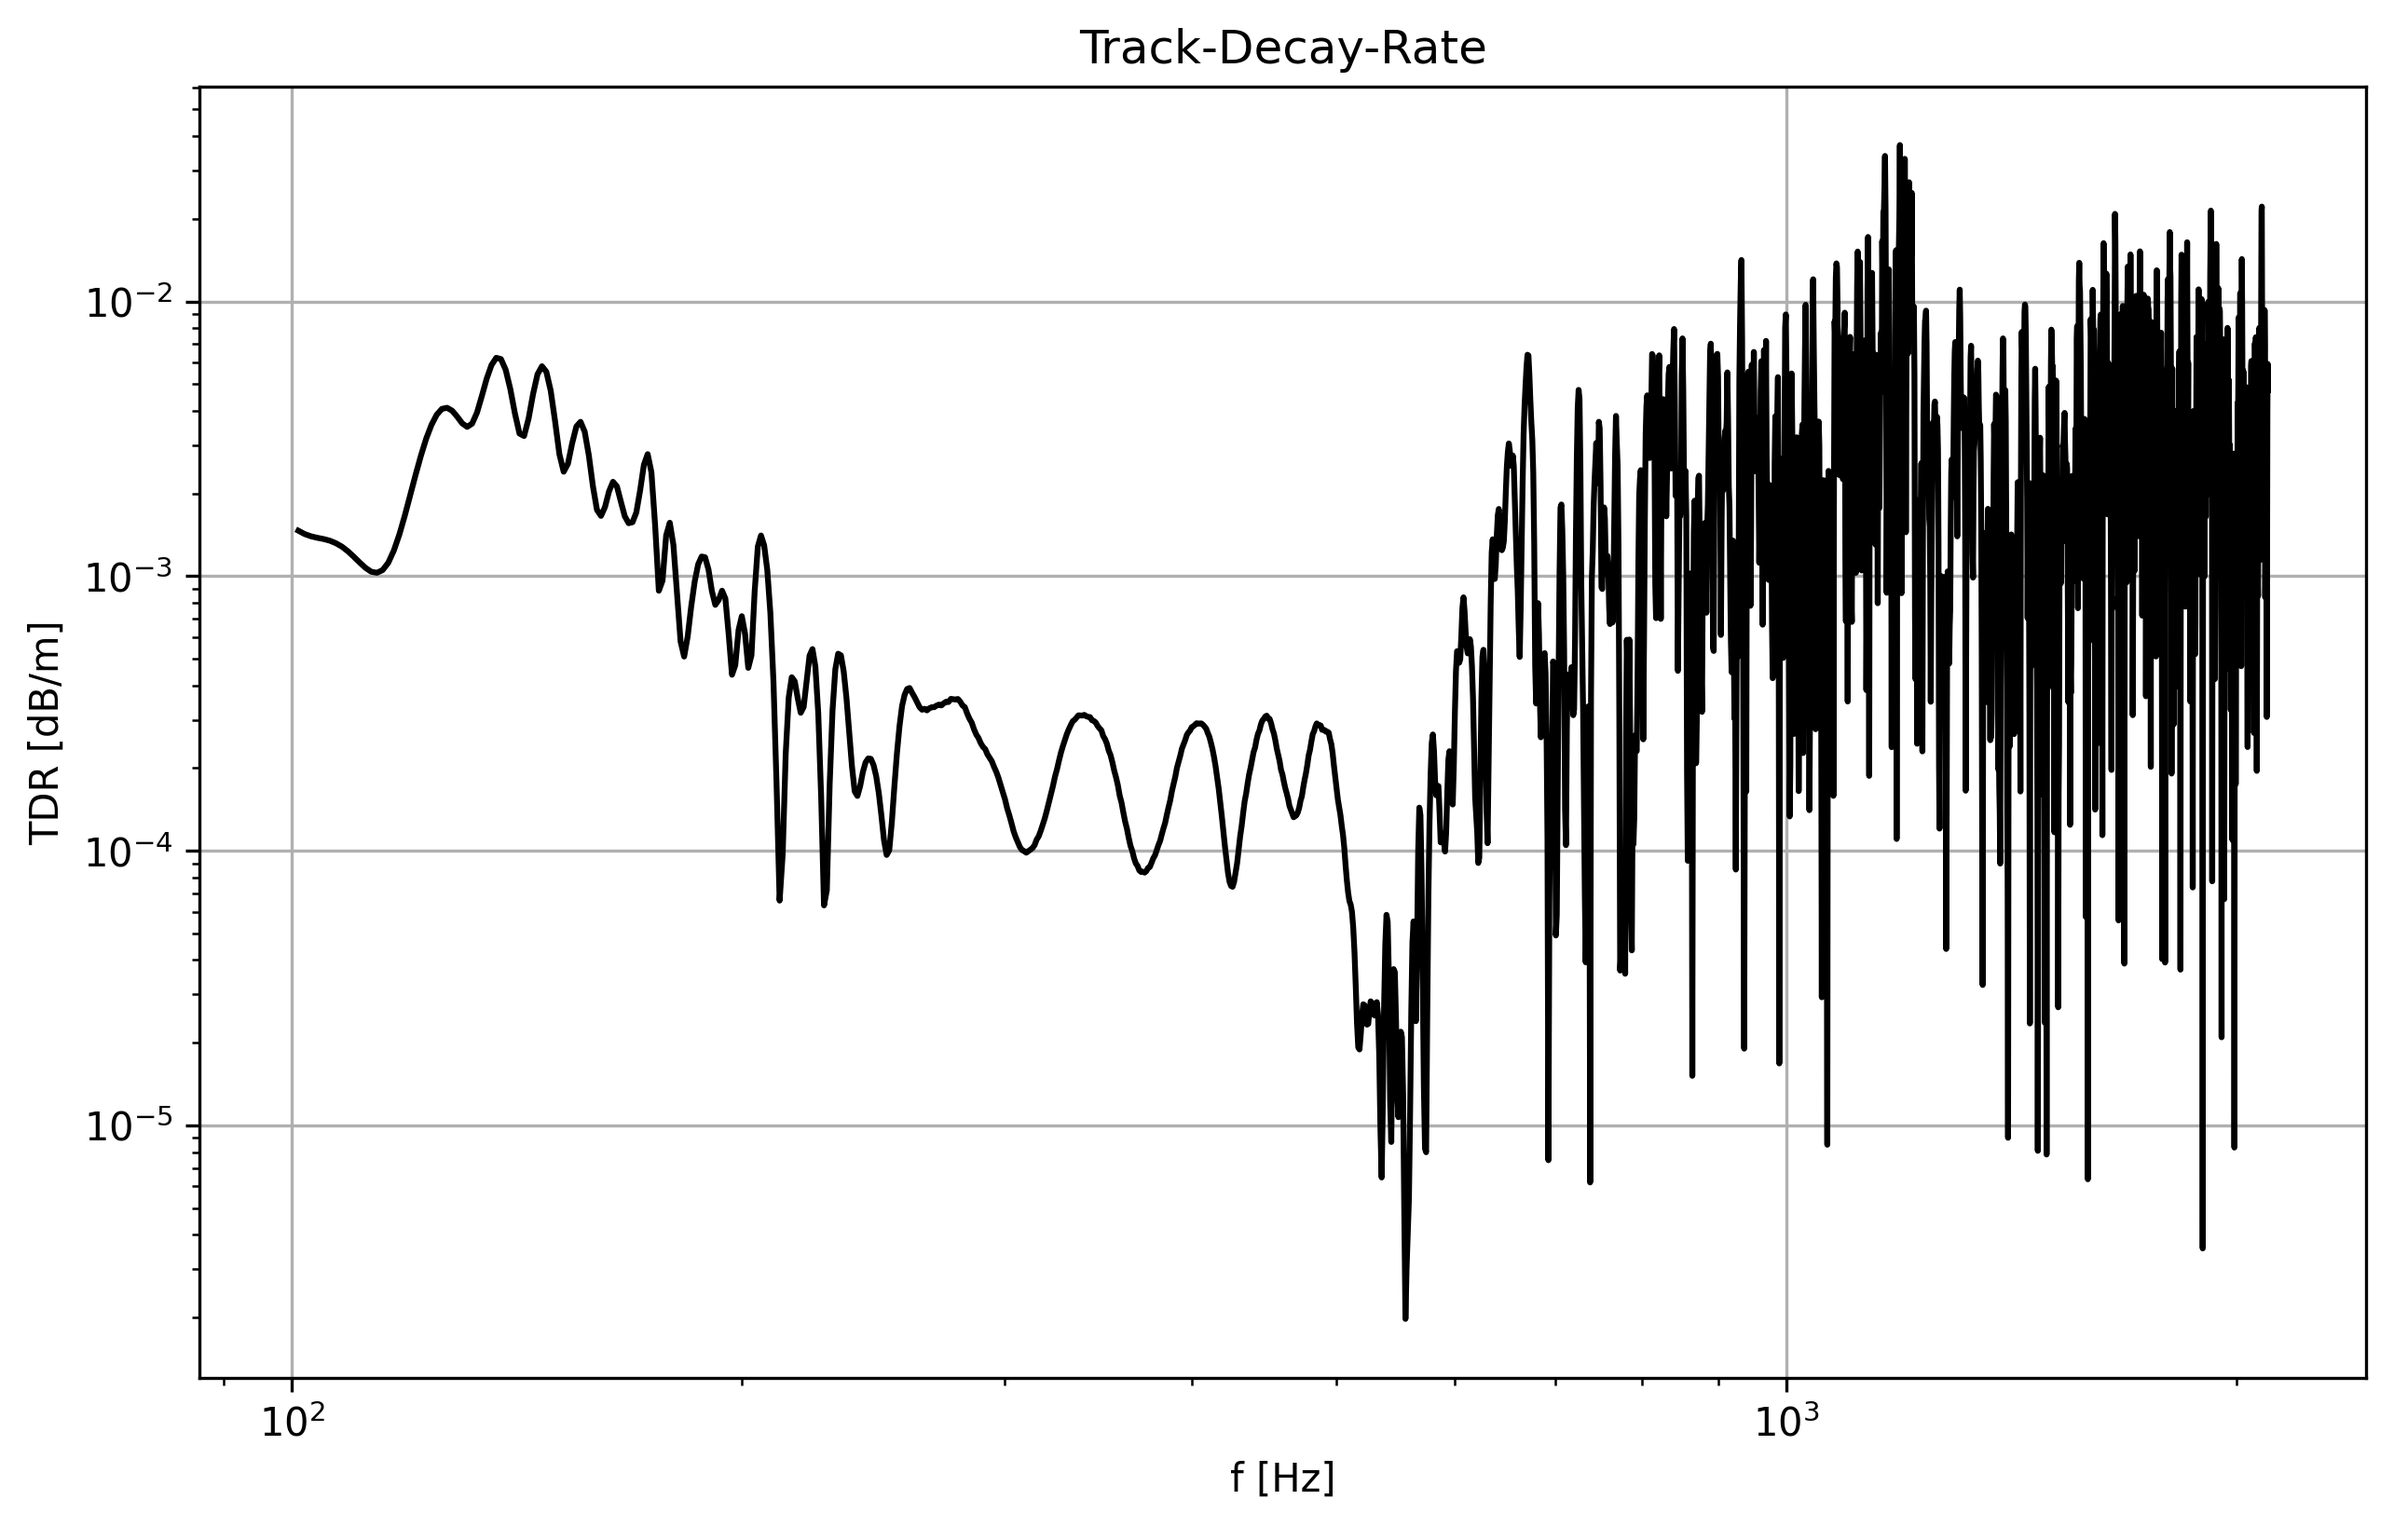
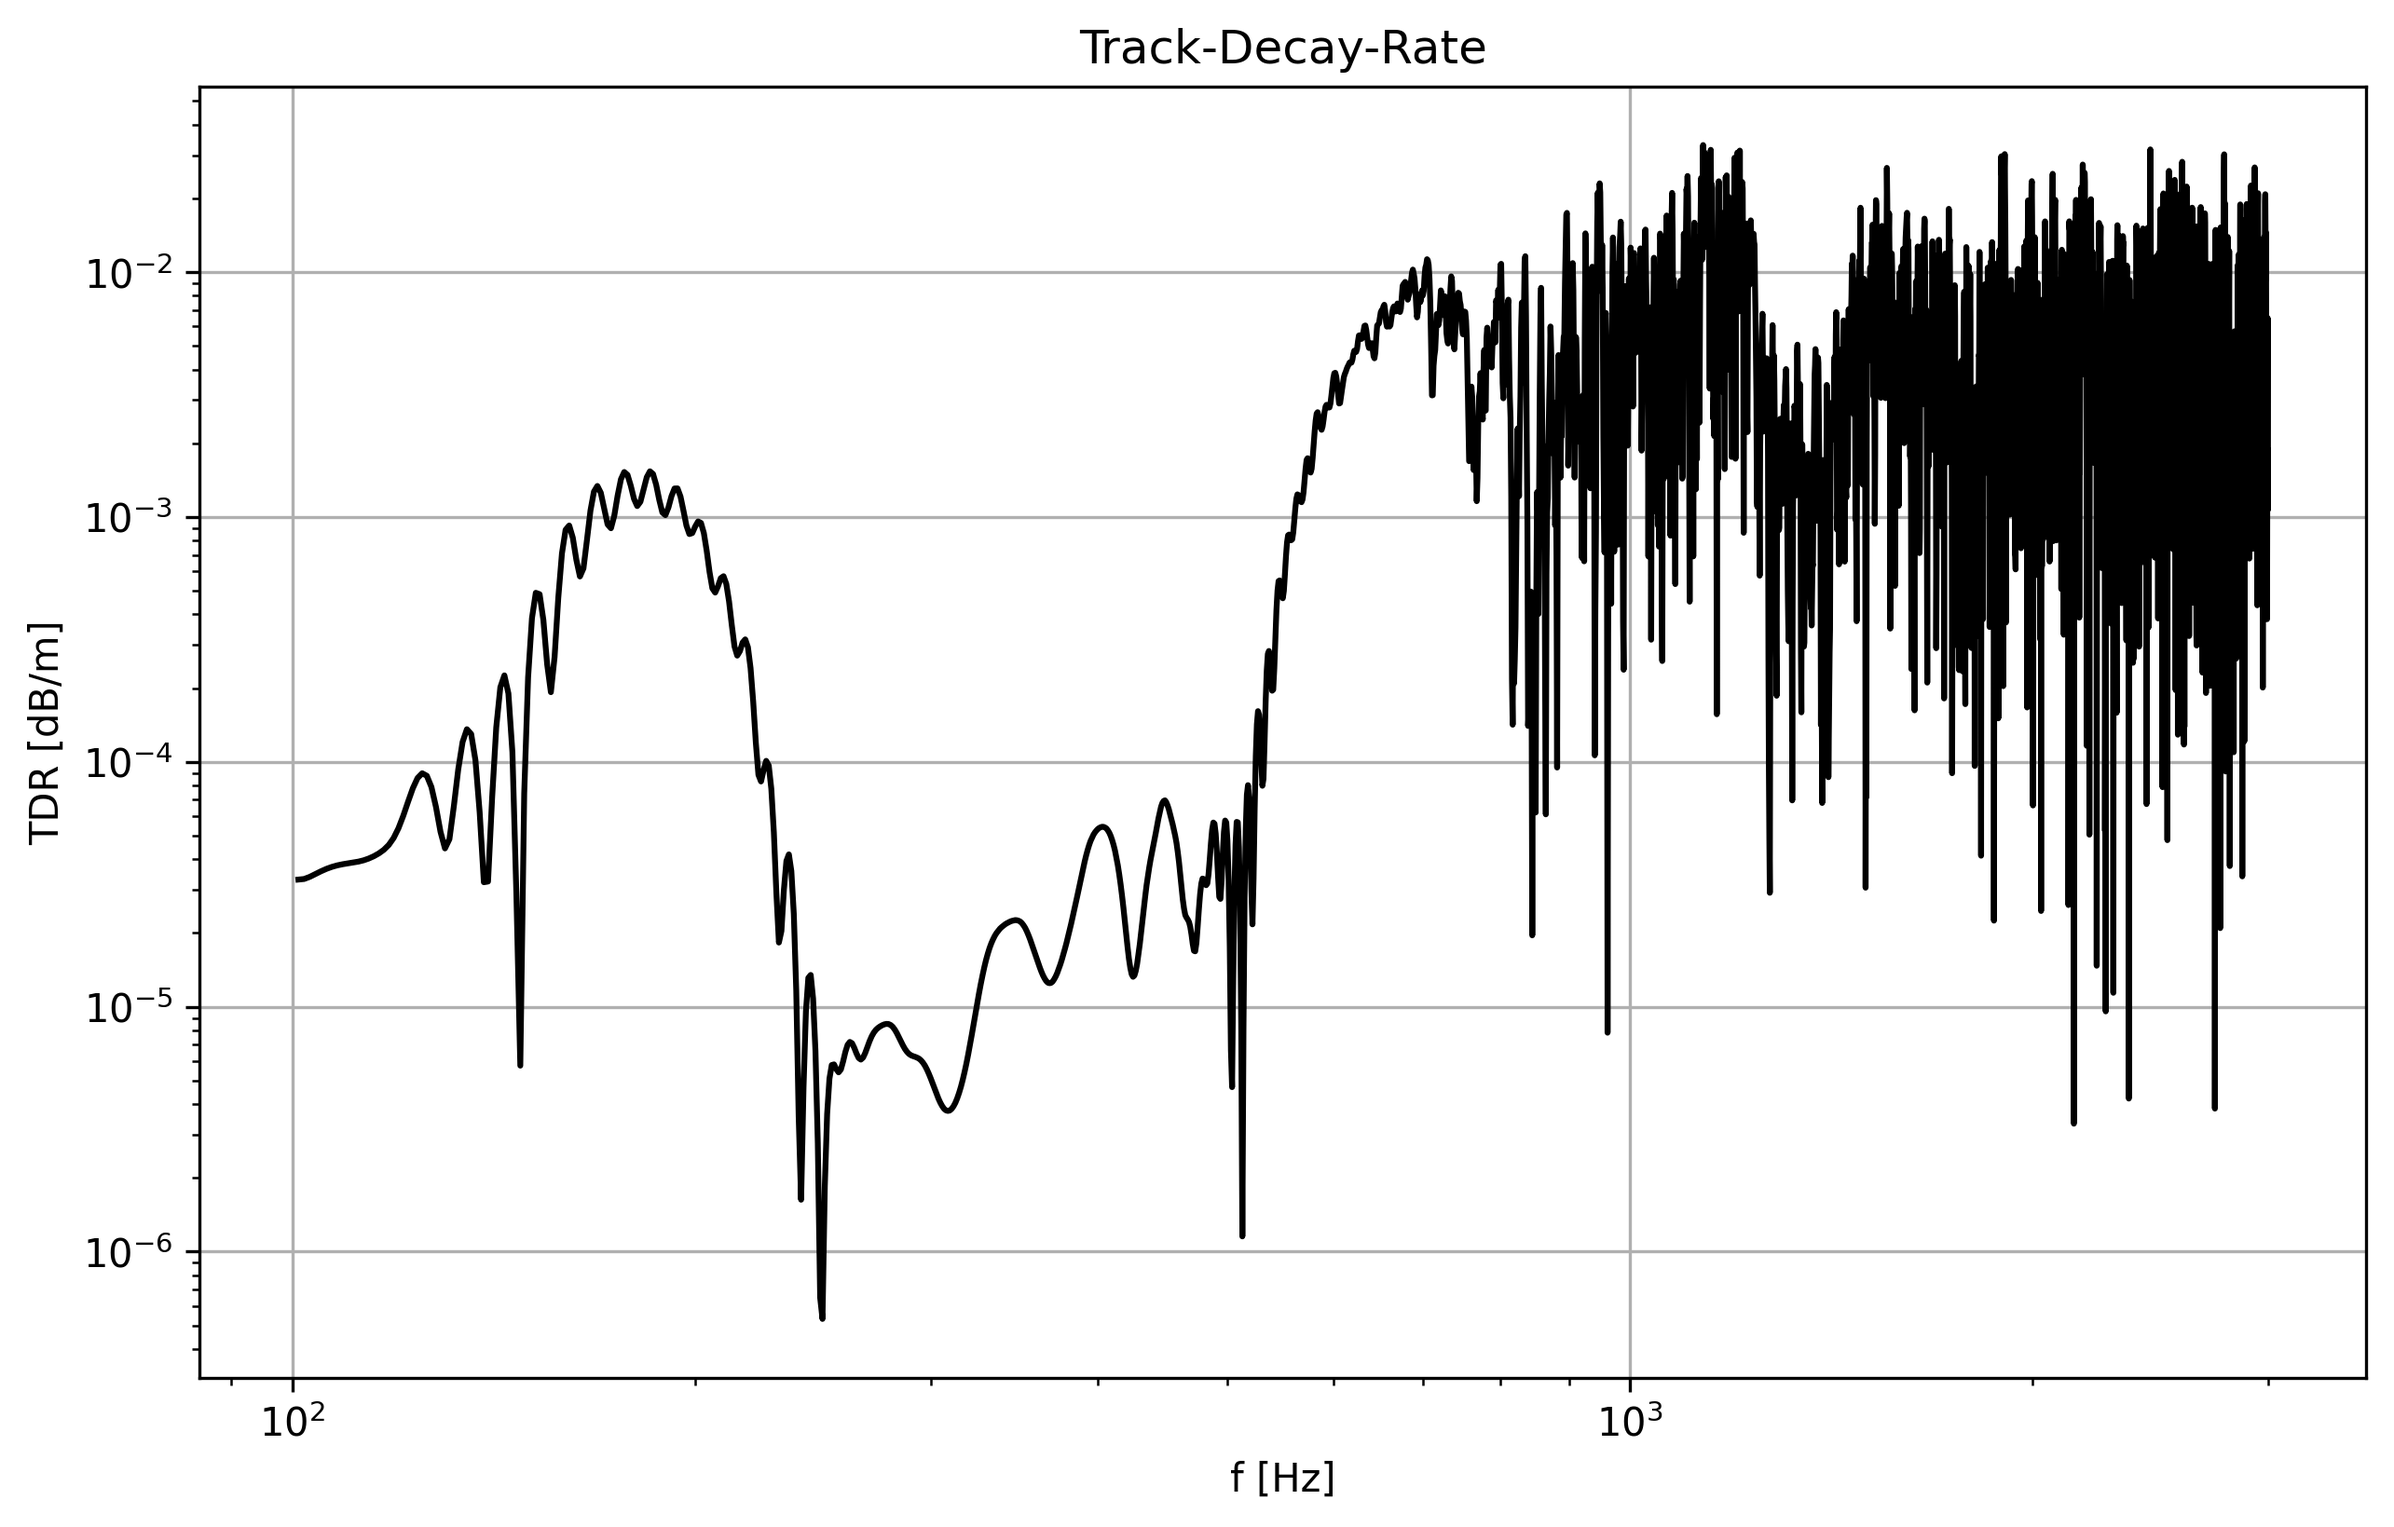
added dynamic wheel model

diff --git a/rolland/deflection.py b/rolland/deflection.py
@@ -174,6 +174,7 @@ class DeflectionEBBVertic(Deflection):
         # create empty force array with length equal to number of DOFs (2*nx)
         f_vec = zeros(2 * self.discr.nx)
 
+        wheel_ID = 0
         for pos in excitation_pos:
             if len(self.force) <= t:
                 # Initialize variables for Hertzian contact calculation
@@ -223,12 +224,12 @@ class DeflectionEBBVertic(Deflection):
                     # Calculate rail deflection, roughness, and wheel deflection
                     y_r = self.interpolate(pos, u1)                     # Interpolated rail deflection at excitation point
                     y_s = self.interpolate(pos, self.excit.roughness)   # Interpolated track roughness at excitation point
-                    # y_w = wheel_deflection                            # Wheel deflection TODO: add wheel deflection calculation
+                    y_w = self.wheel_deflection[wheel_ID][t-1]                            # Wheel deflection TODO: add wheel deflection calculation
 
                     # Calculate geometric penetration
                     # TODO: get this right, check directions of deflection and roughness, and add wheel deflection
                     # y_r: rail deflection, positive if rail moves downwards
-                    delta_lin = self.y_static - y_r + y_s + y_w
+                    delta_lin = self.y_static - y_r + y_s - y_w
                     delta_lin += delta_0
 
                     if delta_lin <= 0: # NOTE: should we check before adding delta_0?
@@ -262,6 +263,20 @@ class DeflectionEBBVertic(Deflection):
             f_vec[lower_idx] += force * weight_lower
             f_vec[upper_idx] += force * weight_upper
 
+
+            M_w = 600  # Mass of the wheel, NOTE: can be adjusted based on actual wheel mass
+            d_w = 2e4  # Wheel damping, NOTE: can be adjusted based on actual wheel damping
+            k_w = 1e8   # Wheel stiffness, NOTE: can be adjusted based on actual wheel stiffness
+            # update wheel deflection, velocity, and acceleration
+            self.wheel_acceleration[wheel_ID][t] = (force - k_w*self.wheel_deflection[wheel_ID][t-1] - d_w*self.wheel_velocity[wheel_ID][t-1]) / M_w
+            self.wheel_velocity[wheel_ID][t] = self.wheel_velocity[wheel_ID][t-1] + self.wheel_acceleration[wheel_ID][t] * self.discr.dt
+            self.wheel_deflection[wheel_ID][t] = self.wheel_deflection[wheel_ID][t-1] + self.wheel_velocity[wheel_ID][t] * self.discr.dt
+
+
+
+
+
+
         return (self.discr.B.dot(u1) + self.discr.C.dot(u0) + self.discr.dt ** 2 /
                 (self.track.rail.mr * self.discr.dx) * f_vec)
 
@@ -279,12 +294,16 @@ class DeflectionEBBVertic(Deflection):
         defl : numpy.ndarray
             Full deflection history (2*nx, nt) containing rail and sleeper DOFs
         """
-        
+        nt = self.discr.nt
+
         # Calculate initial indices for all excitation points
         self.excitation_indices = [int(x / self.discr.dx) for x in self.excit.x_excit]
         
         # Array for storing deflection at contact points over time
-        self.contact_point_deflection = [[] for _ in self.excitation_indices]
+        self.contact_point_deflection   = [[] for _ in self.excitation_indices]
+        self.wheel_deflection           = [zeros(nt) for _ in self.excitation_indices]
+        self.wheel_velocity             = [zeros(nt) for _ in self.excitation_indices]
+        self.wheel_acceleration         = [zeros(nt) for _ in self.excitation_indices]
         
         # Factorization of matrix A (LU decomposition)
         self.factoriz = splu(self.discr.A)
@@ -356,8 +375,6 @@ class DeflectionEBBVertic(Deflection):
         # loop for calculating deflection at each time step
         # NOTE: starts from t=1 because we need defl at t-1 and t-2 for the Crank-Nicolson scheme
         for t in range(1, self.discr.nt):
-            if t == 5000:
-                a = "checkpoint"  # TODO: remove hardcoded checkpoint for debugging
             # Calculate current positions based on velocity with ramp-up
             ramp_steps = int(self.excit.ramp_fraction * self.discr.nt)  # number of time steps for velocity ramp-up
             if t < ramp_steps:

diff --git a/Moving_Force.py b/Moving_Force.py
@@ -40,7 +40,7 @@ import pickle
 # =============================================================================
 # 0. TESTING PARAMETERS
 # =============================================================================
-use_precalculated_results = True  # Set to True to use pre-calculated results
+use_precalculated_results = False  # Set to True to use pre-calculated results
 store_deflection          = True   # TODO: this is not implemented yet!
 starting_position         = 80.0   # Starting position [m]
 num_mount                 = 400    # Number of discrete mounting positions
@@ -51,6 +51,7 @@ dt                        = 2.2e-5 # Time step [s]
 velocities                = [60]   # Velocities to simulate [m/s] NOTE: always give a list, even for a single velocity
 ramp_fraction             = 0.1    # Fraction of total time for ramp up (affects velocity and force)
 static_force              = 65000.0 # Static force amplitude [N]
+#use_contact_model           = False   # TODO: not implemented yet, currently only point load excitation possible
 
 # Output directory
 output_dir = Path('mobility_plots')
